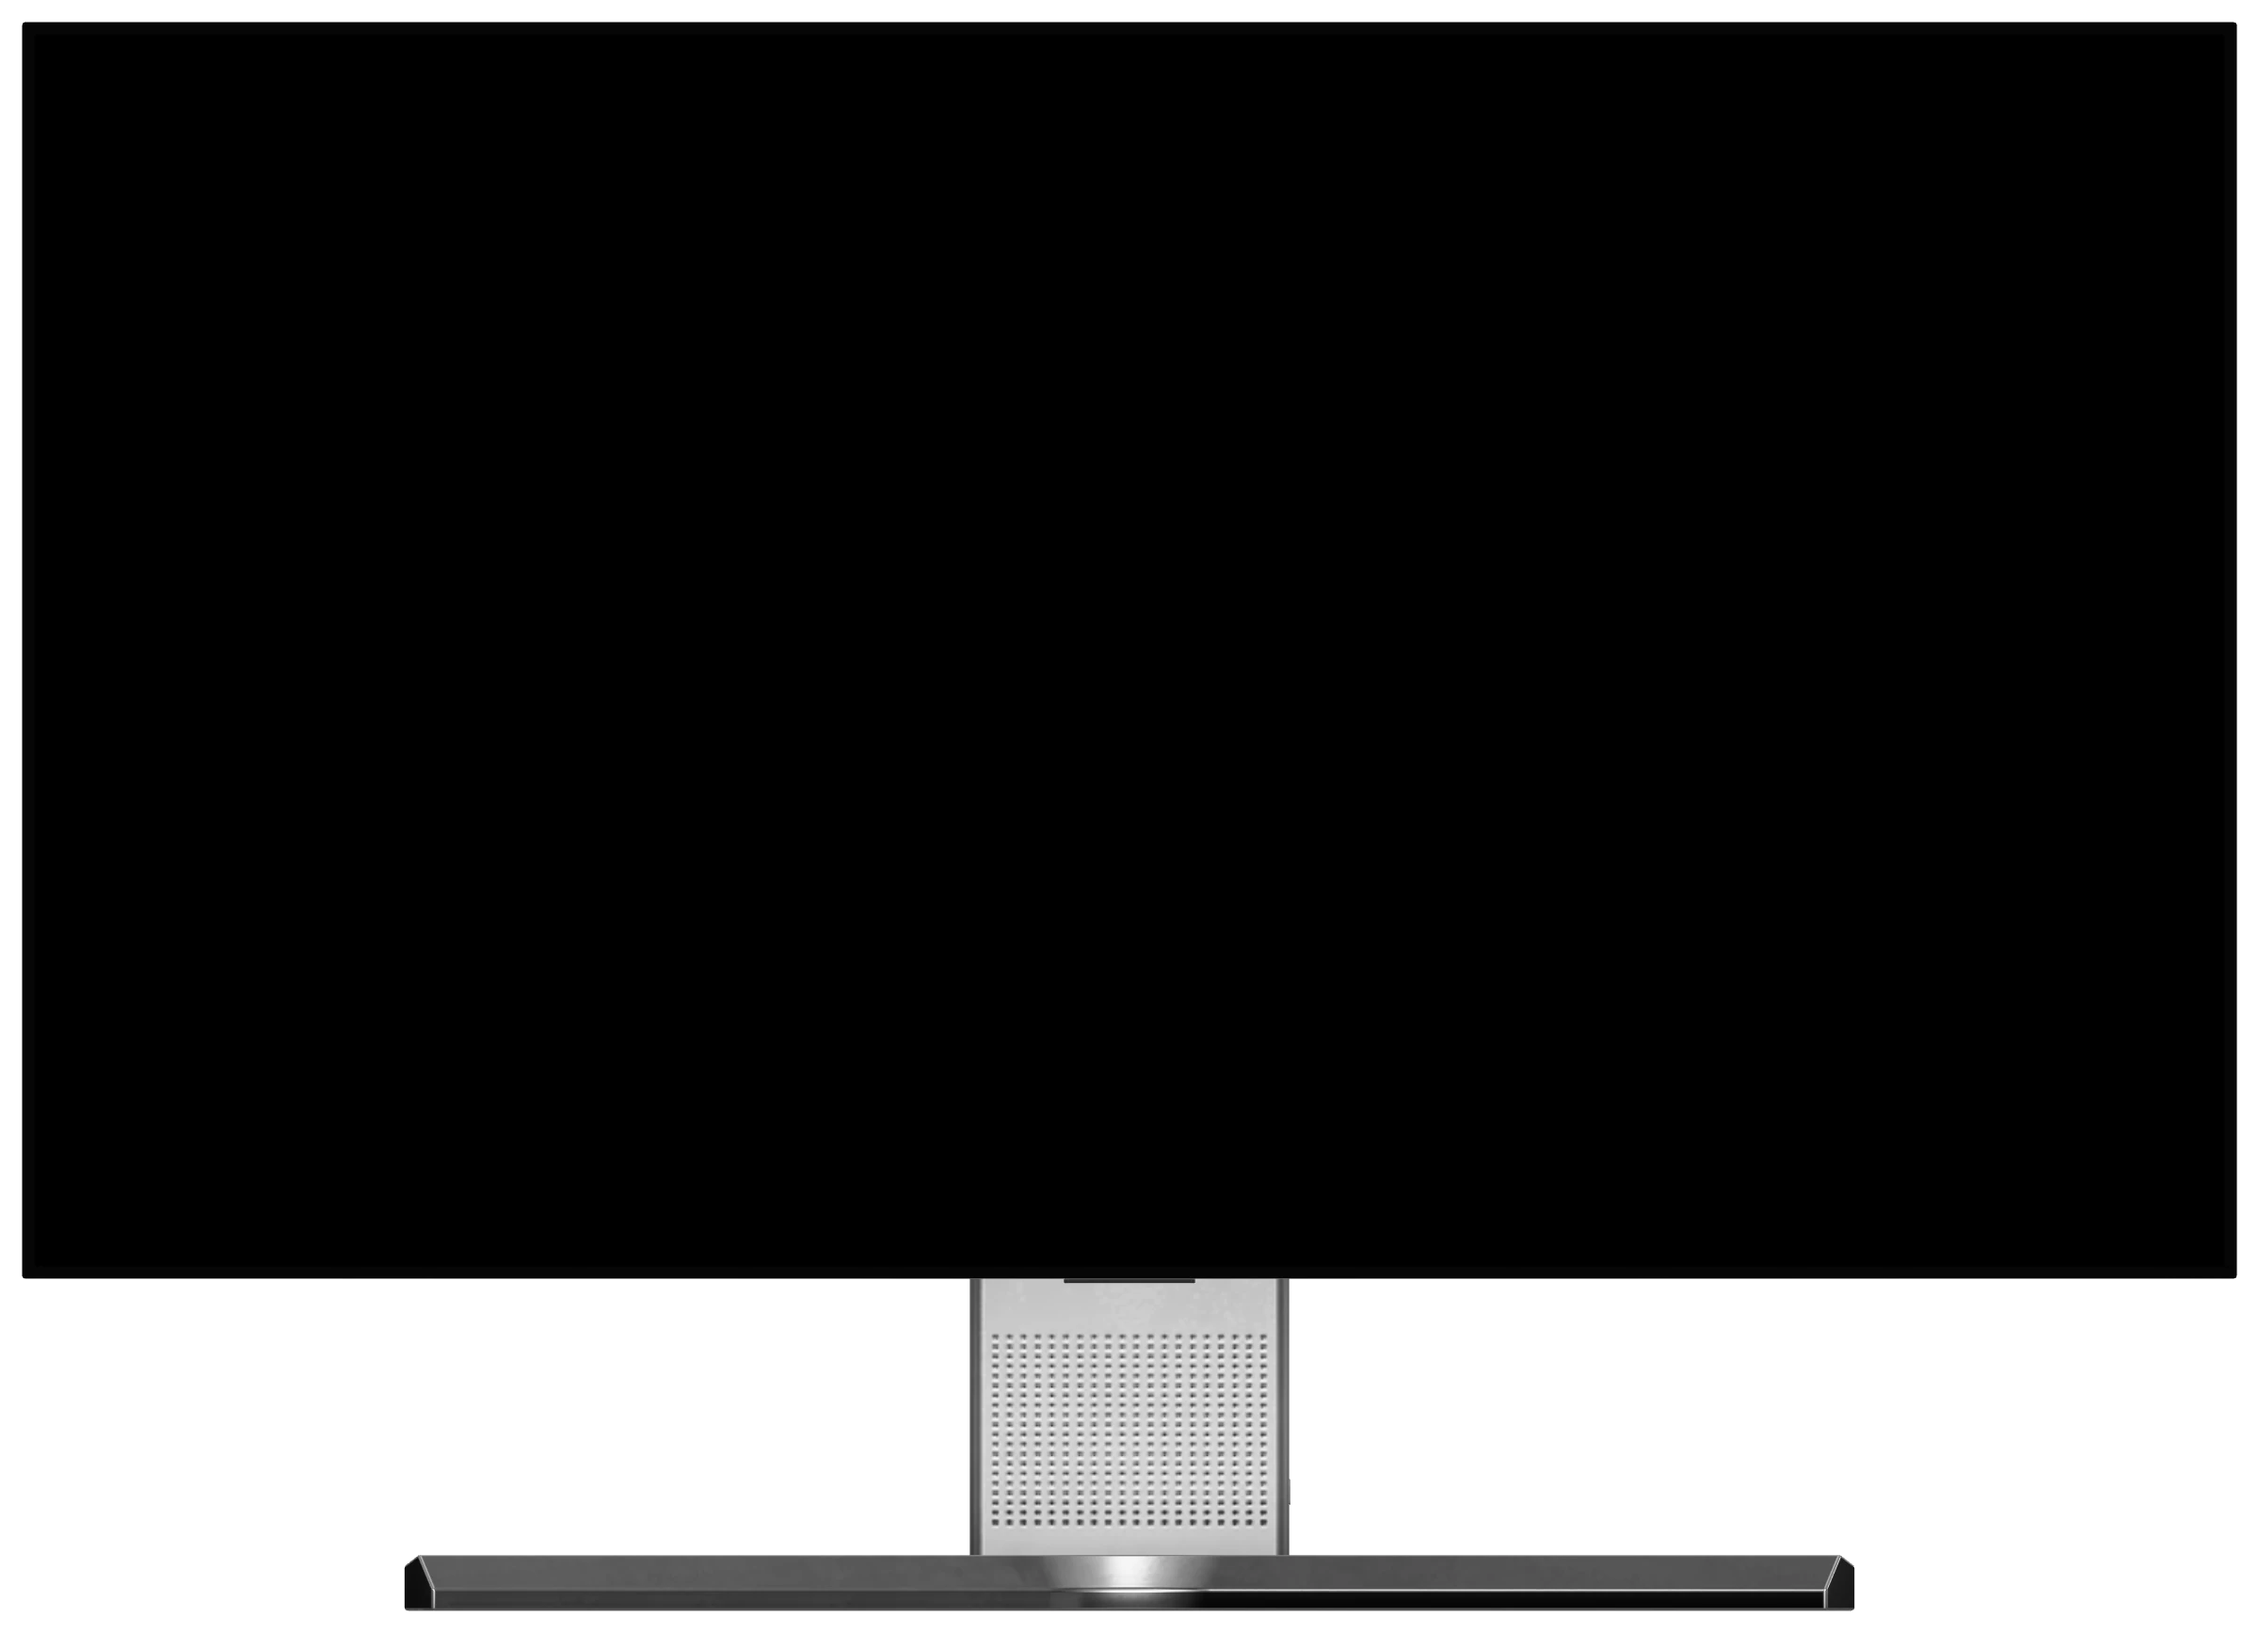
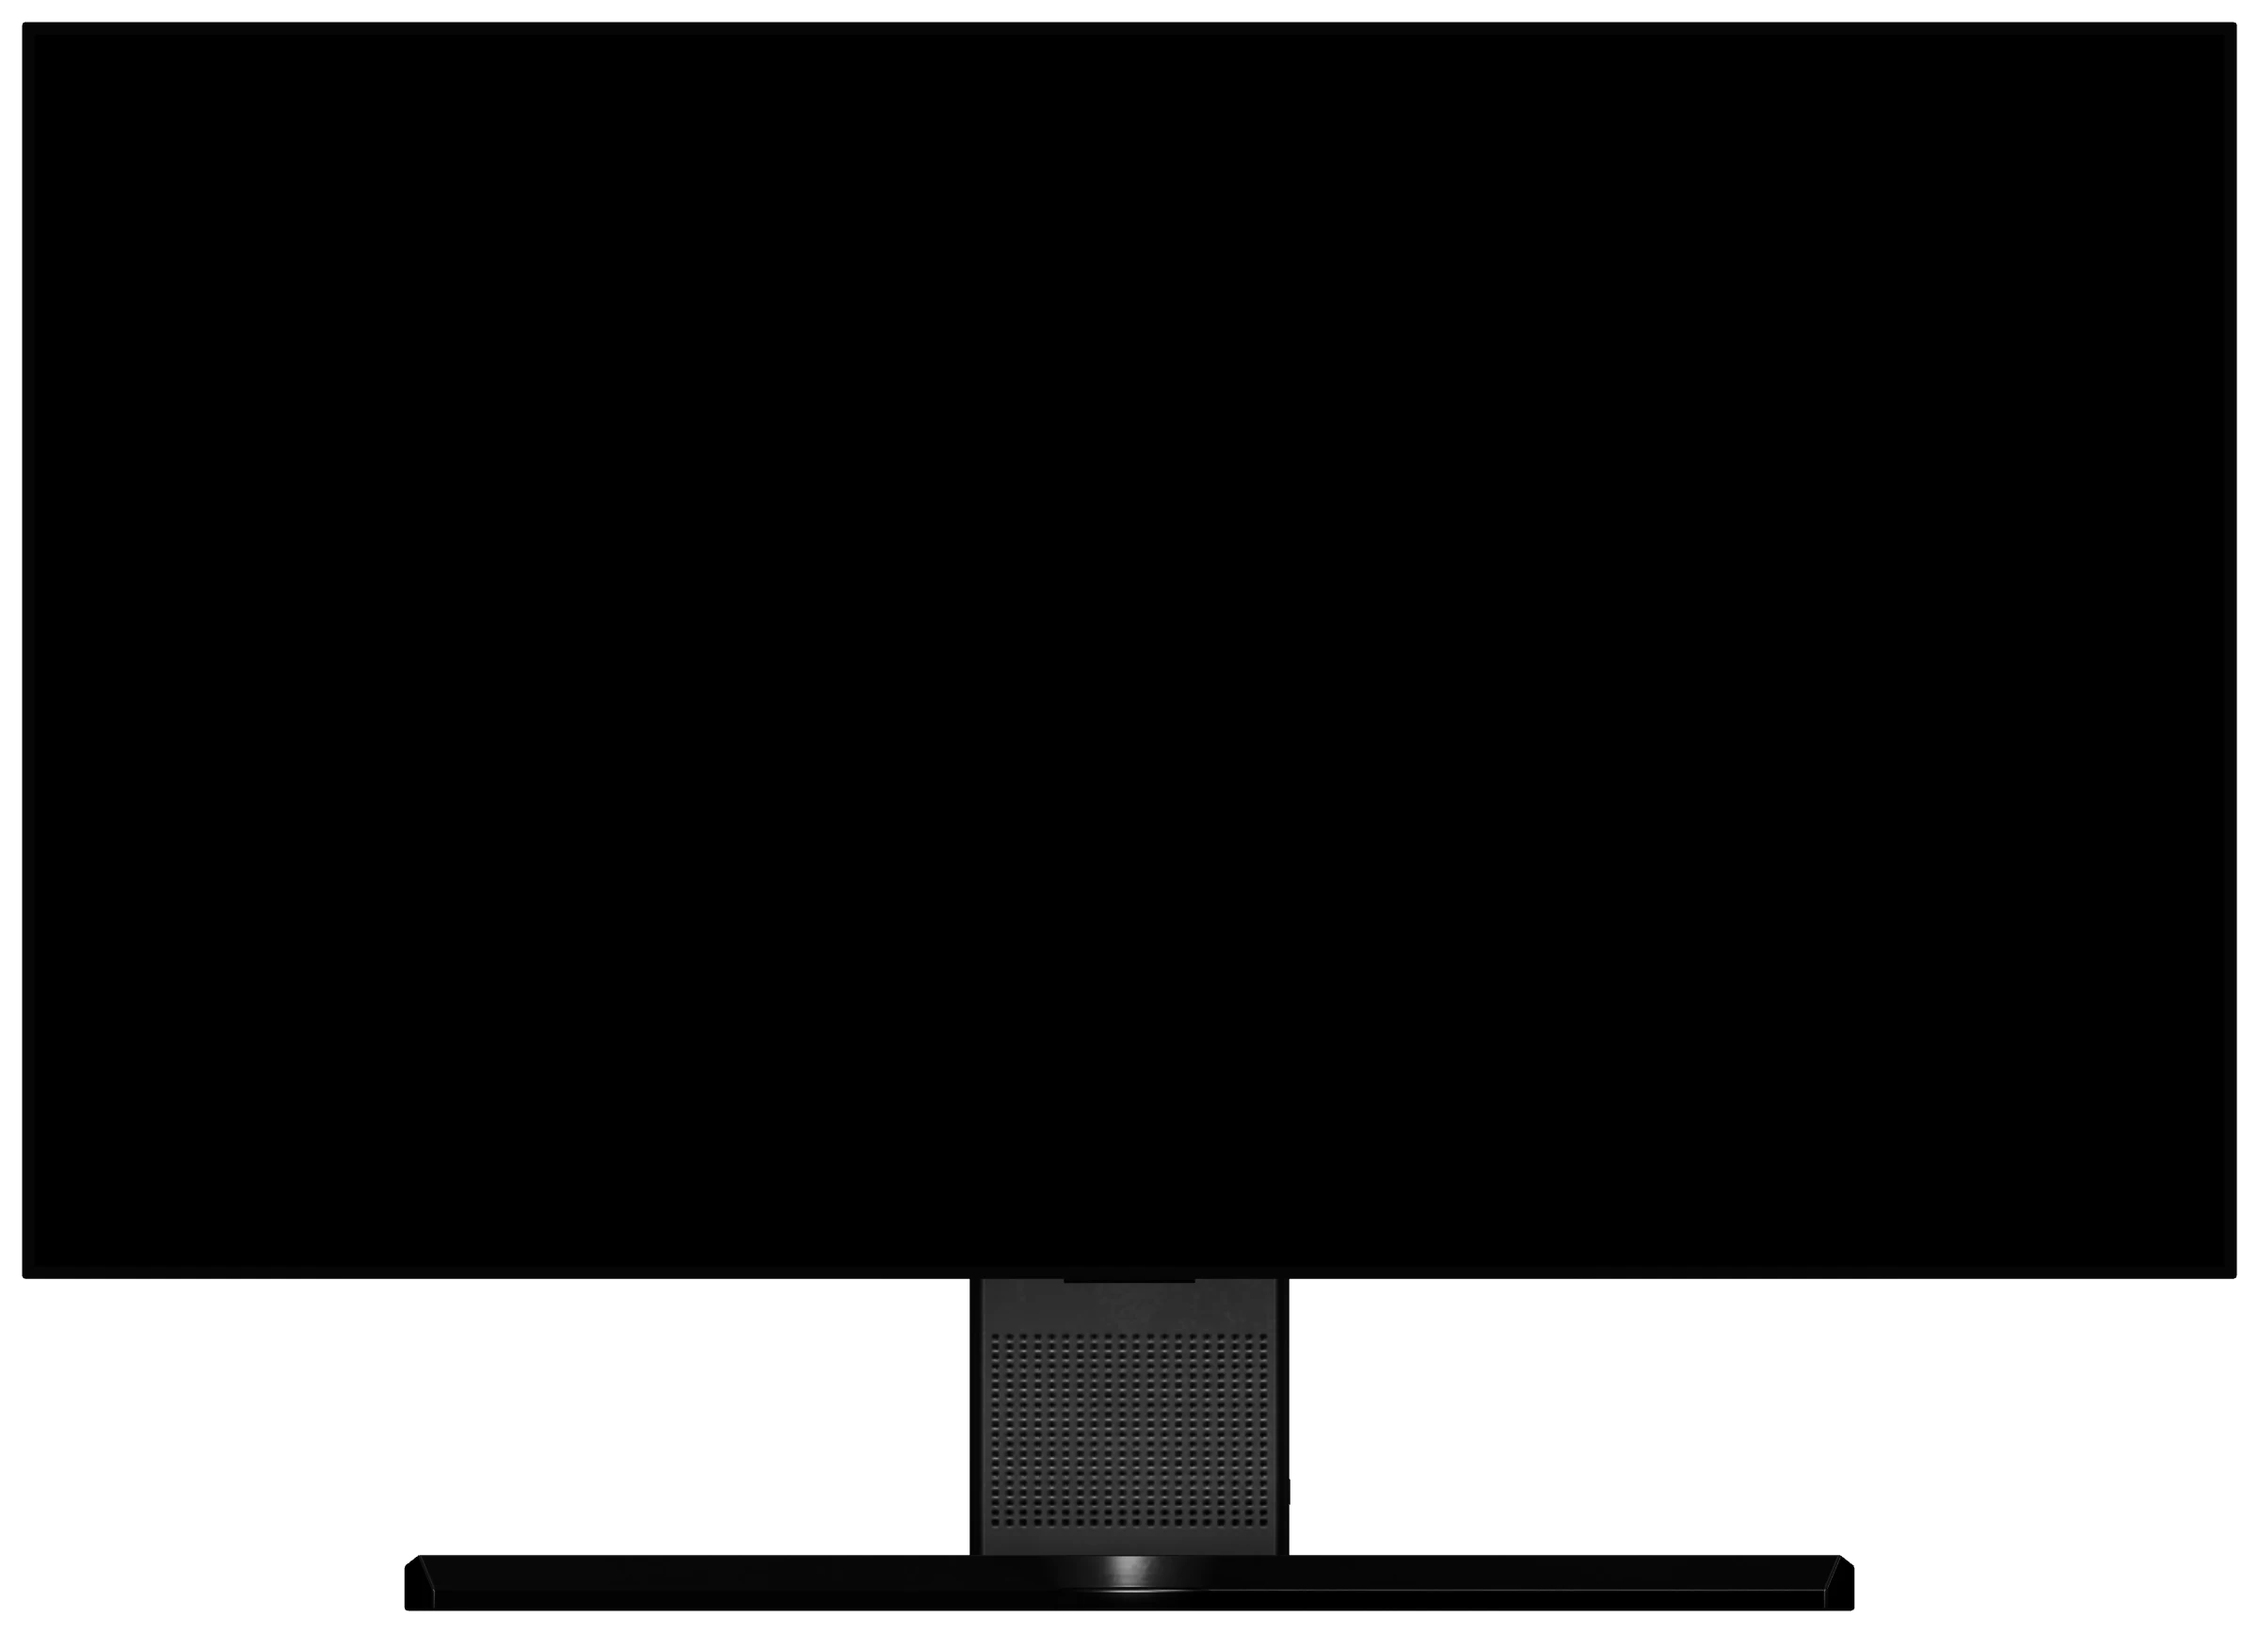
Website: crop the monitor at the panel edge, black stand, 65% width
- The hero panel's bottom edge now cuts the monitor just below the frame.
- The stand is black.
- The screen is 65% of the window width, capped by window height, so all of
  it fits below the nav when scrolled to. Below 900px it stays at 80%.

Changed region(s): [[0.1875, 0.7781, 0.8438, 0.996]]

diff --git a/docs/index.html b/docs/index.html
@@ -77,8 +77,9 @@ a { color: inherit; text-decoration: none; }
 .ver { margin-top: 12px; font: 12px var(--mono); color: rgba(255, 255, 255, .75); min-height: 18px; }
 
 /* Demo: three real frames of the overlay. Frame 1 is revealed like a selection being dragged, frame 2 fades in the annotations. */
-/* The monitor screen spans 96.94% of the image, so 82.52vw makes the screen 80vw */
-.stage { width: min(82.52vw, 100%); margin: 64px auto 0; }
+/* The screen spans 96.94% of the image: 67.05vw makes it 65vw. The height cap keeps all of it visible below the nav. */
+/* The panel's bottom edge cuts the monitor just below the frame, through the stand */
+.stage { width: min(67.05vw, (100vh - 120px) * 1.834, 100%); aspect-ratio: 2400 / 1456; min-height: 0; margin: 64px auto 0; clip-path: inset(-100px -100px 0); }
 .monitor { position: relative; }
 .monitor > img { display: block; width: 100%; height: auto; filter: drop-shadow(0 30px 40px rgba(30, 50, 90, .3)); }
 /* Screen rectangle measured from the 3D model */
@@ -214,6 +215,7 @@ footer a:hover { color: var(--fg); }
 
 @media (max-width: 900px) {
   .links { display: none; }
+  .stage { width: min(82.52vw, (100vh - 120px) * 1.834, 100%); }
   .cards { grid-template-columns: minmax(0, 1fr); }
   .card { min-height: 0; }
   .minis { grid-template-columns: minmax(0, 1fr); }
